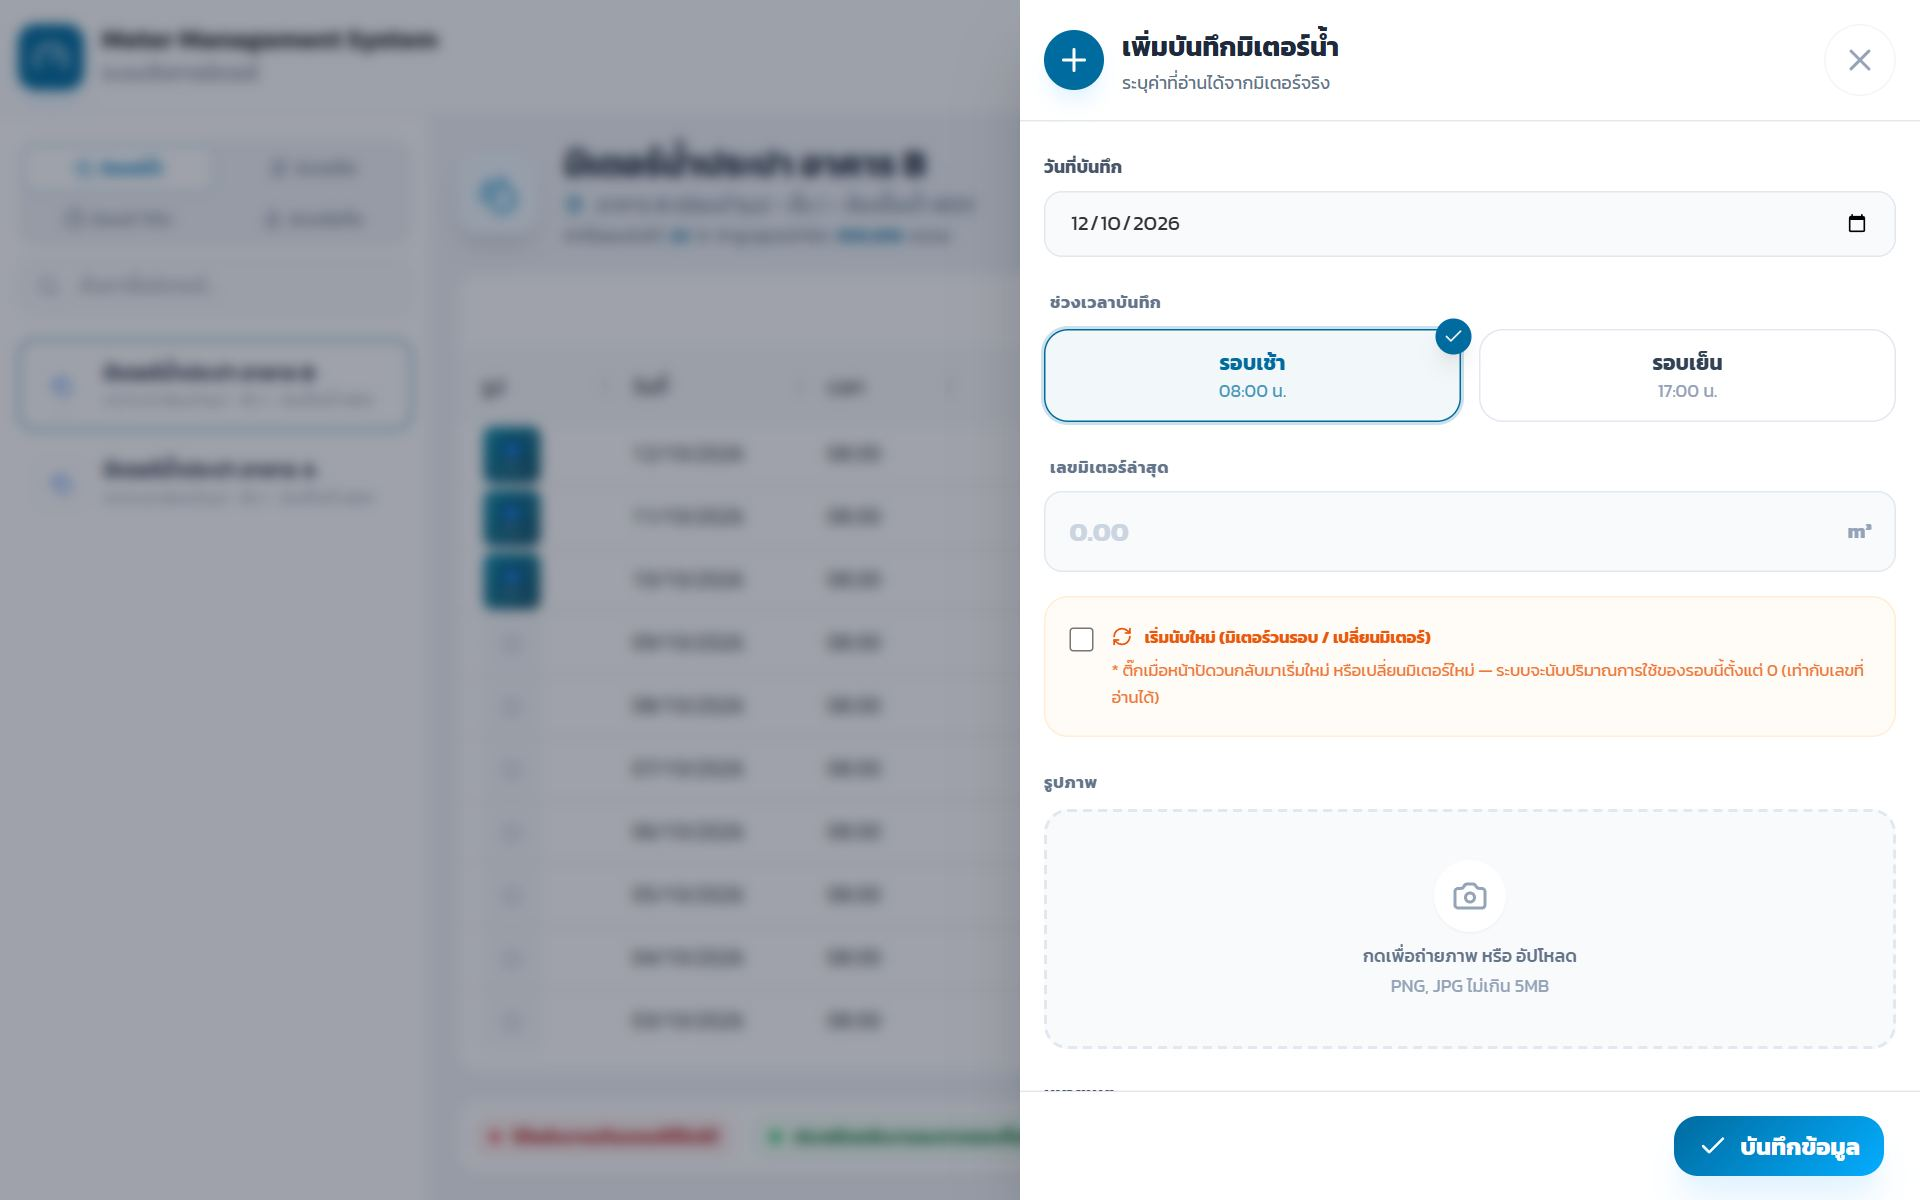
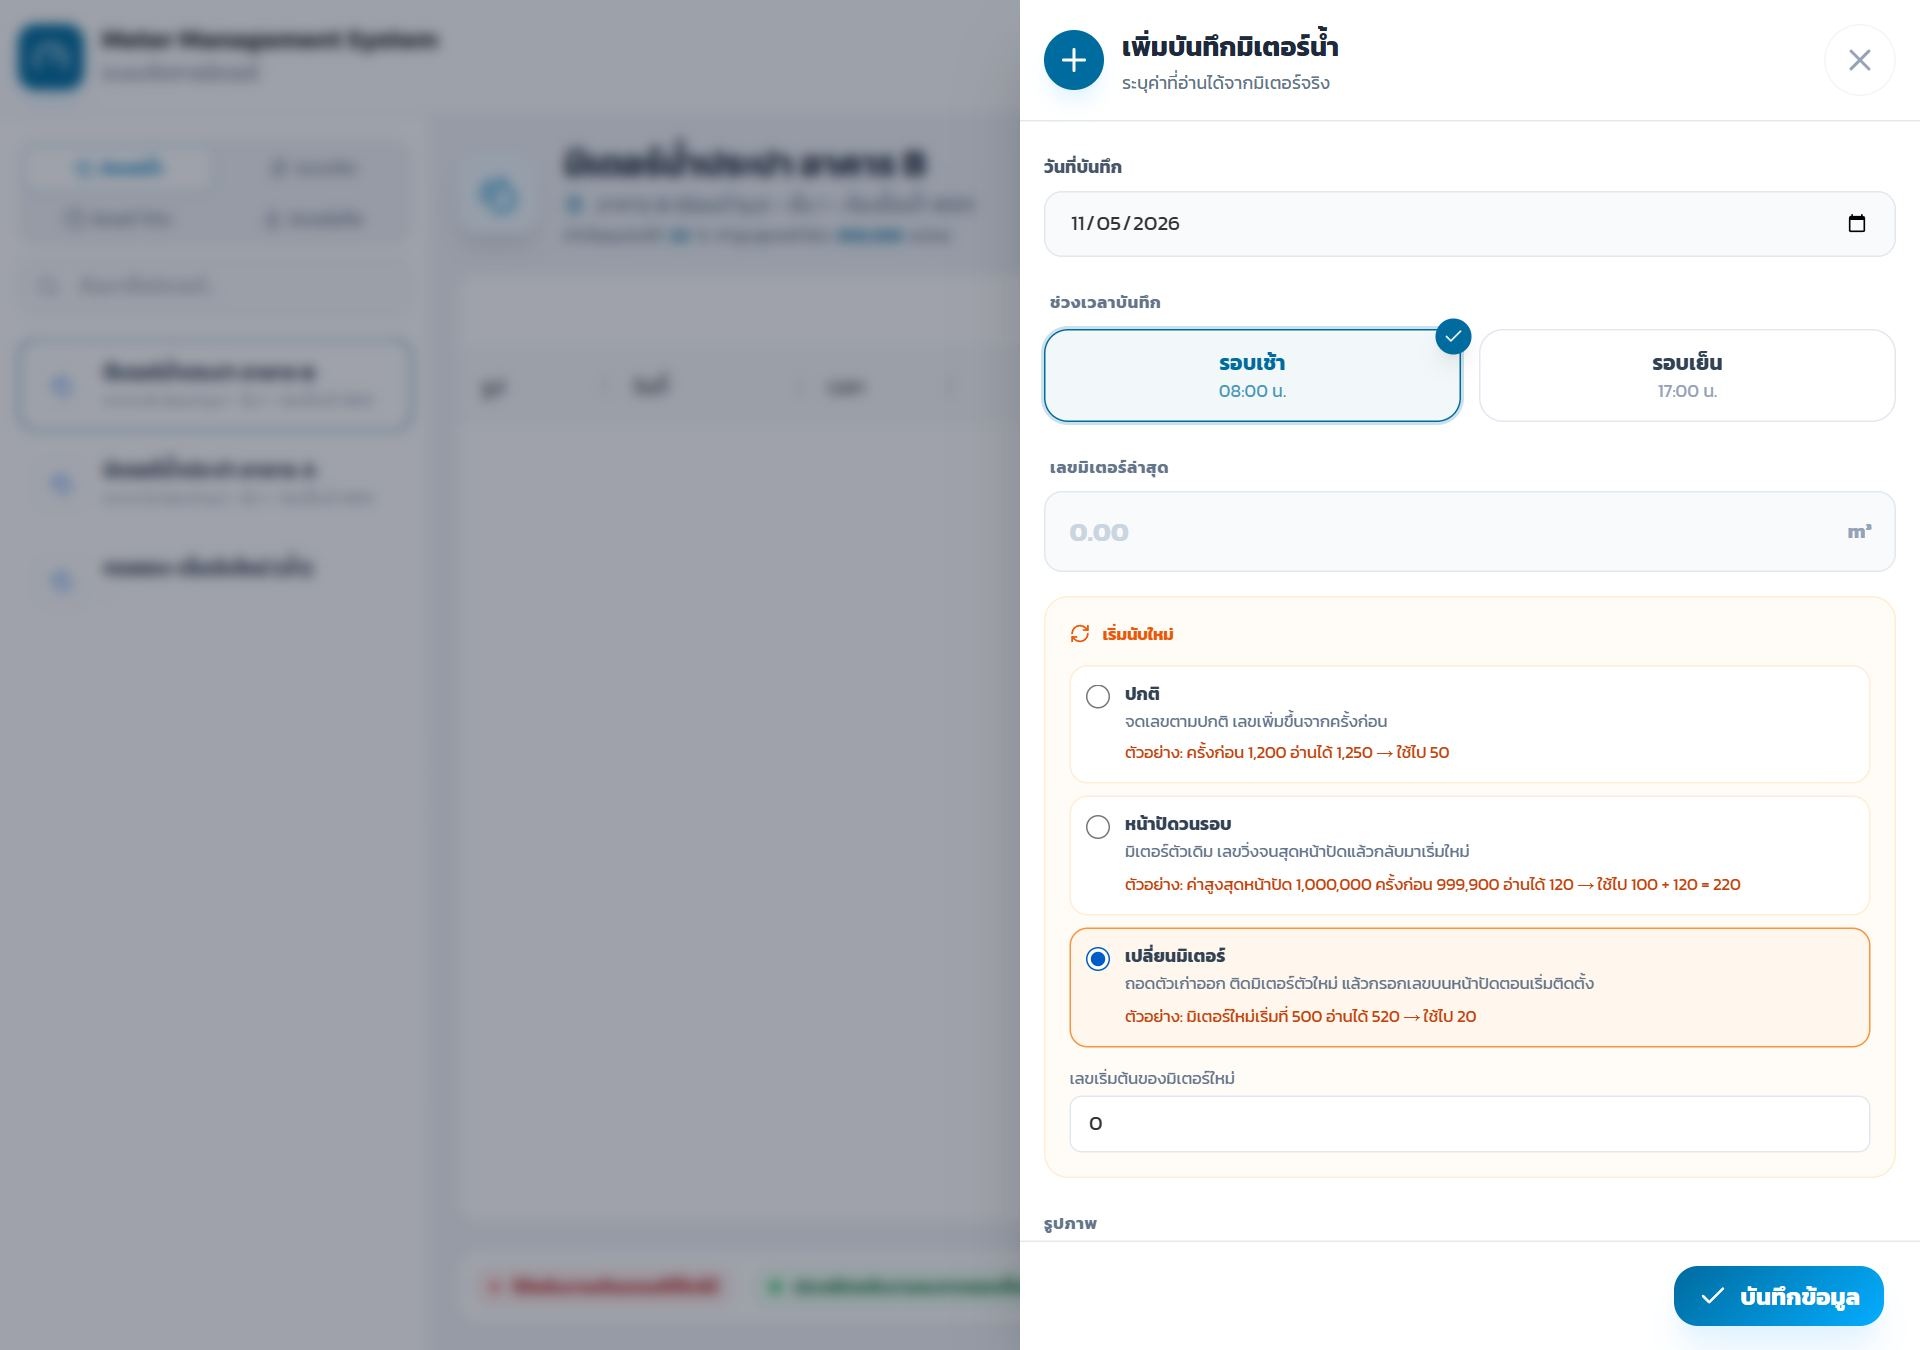
คู่มือบันทึกค่ามิเตอร์: อธิบาย "เริ่มนับใหม่" 3 แบบพร้อมตัวอย่าง + เพิ่มส่วนฟอร์ม TOU
- ถ่ายรูปฟอร์มน้ำ/ไฟใหม่ และเพิ่มรูปฟอร์ม TOU พร้อมหมุดตัวเลข
- ระบุว่า 031/032/071/072 ใส่น้อยกว่าครั้งก่อนได้ และต้องตั้งค่าสูงสุดหน้าปัดให้ตรงกับมิเตอร์จริง

diff --git a/tutorial.php b/tutorial.php
@@ -1068,11 +1068,22 @@ const MODULES = [
             { m: 2, t: 'ใช้ค่าที่อ่านได้จาก <b>หน้าปัดมิเตอร์จริง</b> ทุกครั้ง' },
             { m: 3, t: '<b>วันที่บันทึก</b> แล้วเลือก <b>ช่วงเวลาบันทึก</b> (รอบที่ต้องจด)' },
             { m: 4, t: '<b>เลขมิเตอร์ล่าสุด</b> — ตัวเลขบนหน้าปัด' },
-            { m: 6, t: '<b>เริ่มนับใหม่</b> — ปกติเลือก <b>ปกติ</b> · <b>หน้าปัดวนรอบ</b> = ช่องที่เลขลดลงคิดส่วนที่เหลือจนถึงค่าสูงสุดหน้าปัด บวกเลขที่อ่านได้ (TOU: ช่องที่ไม่ลดลงคิดตามปกติ) · <b>เปลี่ยนมิเตอร์</b> = เลขที่อ่านได้ ลบ เลขเริ่มต้นของมิเตอร์ใหม่ ที่กรอก · ถ้าเลือกปกติแต่เลขสะสมน้อยกว่ารอบก่อน ระบบจะไม่ให้บันทึก (TOU: ค่า Demand 031/032 และ Reactive 071/072 ใส่น้อยกว่าเดิมได้)' },
+            { m: 6, t: '<b>เริ่มนับใหม่</b> — เลือกให้ตรงกับหน้างาน ในฟอร์มมีตัวอย่างตัวเลขของทุกแบบ' },
+            { t: '<b>ปกติ</b> — จดตามปกติ เลขเพิ่มขึ้นจากครั้งก่อน เช่น ครั้งก่อน 1,200 อ่านได้ 1,250 ใช้ไป 50' },
+            { t: '<b>หน้าปัดวนรอบ</b> — มิเตอร์ตัวเดิม เลขวิ่งจนสุดหน้าปัดแล้วกลับมาเริ่มใหม่ เช่น ค่าสูงสุดหน้าปัด 1,000,000 ครั้งก่อน 999,900 อ่านได้ 120 ใช้ไป 100 + 120 = 220' },
+            { t: '<b>เปลี่ยนมิเตอร์</b> — ถอดตัวเก่าออก ติดตัวใหม่ แล้วกรอก<b>เลขเริ่มต้นของมิเตอร์ใหม่</b> เช่น เริ่มที่ 500 อ่านได้ 520 ใช้ไป 20' },
+            { t: 'ระบบไม่ให้บันทึกถ้าเลือก <b>ปกติ</b> แต่เลขน้อยกว่าครั้งก่อน หรือเลือก <b>หน้าปัดวนรอบ</b> แต่เลขไม่ได้ลดลง' },
             { t: '<b>รูปภาพ</b> หน้าปัด (PNG, JPG ไม่เกิน 5MB) และหมายเหตุ' },
             { m: 5, t: 'กด <span class="kbd">บันทึกข้อมูล</span>' }
+        ] },
+        { title: 'เพิ่มบันทึกมิเตอร์ TOU', shot: 'meter_add_tou', steps: [
+            { m: 1, t: '<b>พลังงานไฟฟ้า</b> — Total 010, On Peak 011, Off Peak 012 เป็นเลขสะสม ใส่น้อยกว่าครั้งก่อนไม่ได้ เว้นแต่เลือกเริ่มนับใหม่ · หน่วยที่ใช้ = On Peak + Off Peak' },
+            { m: 2, t: '<b>ค่าความต้องการไฟฟ้าสูงสุด</b> (On Peak 031, Off Peak 032) — ใส่น้อยกว่าครั้งก่อนได้ เลือก <b>ปกติ</b> ได้เลย' },
+            { m: 3, t: '<b>ค่าความต้องการกำลังฟ้ารีแอ็คทีฟ</b> (On Peak 071, Off Peak 072) — ใส่น้อยกว่าครั้งก่อนได้ เลือก <b>ปกติ</b> ได้เลย' },
+            { m: 4, t: '<b>เริ่มนับใหม่</b> — <b>หน้าปัดวนรอบ</b>: ระบบดูแยก On กับ Off เอง ช่องที่เลขลดลงคิดแบบวนรอบ ช่องที่ไม่ลดคิดตามปกติ · <b>เปลี่ยนมิเตอร์</b>: กรอกเลขเริ่มต้นทั้ง On Peak และ Off Peak' },
+            { m: 5, t: 'กด <span class="kbd">บันทึกข้อมูล</span>' }
         ] }],
-        tips: ['รอบเวลาที่ต้องจดและค่าที่ยอมรับได้ ตั้งโดยผู้ดูแลระบบในเมนู <b>ตั้งค่าข้อมูล → บันทึกมิเตอร์ น้ำ/ไฟ</b>']
+        tips: ['รอบเวลาที่ต้องจดและค่าที่ยอมรับได้ ตั้งโดยผู้ดูแลระบบในเมนู <b>ตั้งค่าข้อมูล → บันทึกมิเตอร์ น้ำ/ไฟ</b>', 'การคิดหน้าปัดวนรอบใช้<b>ค่าสูงสุดหน้าปัด</b> ที่ตั้งไว้ในเมนูเดียวกัน ต้องตั้งให้ตรงกับมิเตอร์จริง']
     },
     {
         id: 'machine', title: 'ข้อมูลอุปกรณ์เครื่องจักร', perm: 'machine_data', href: 'machine_info.php',
